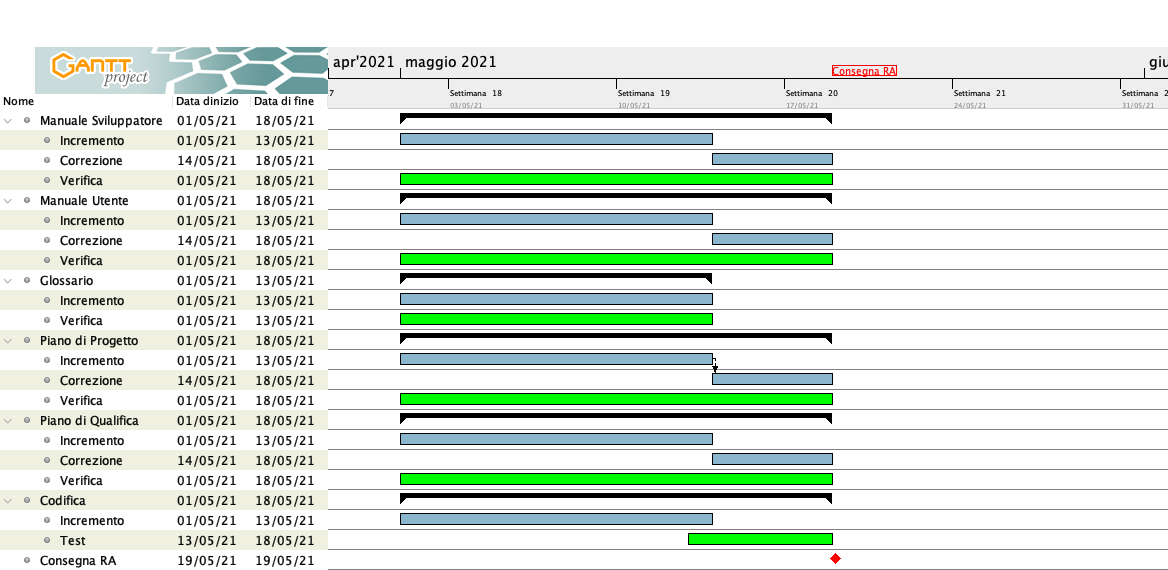
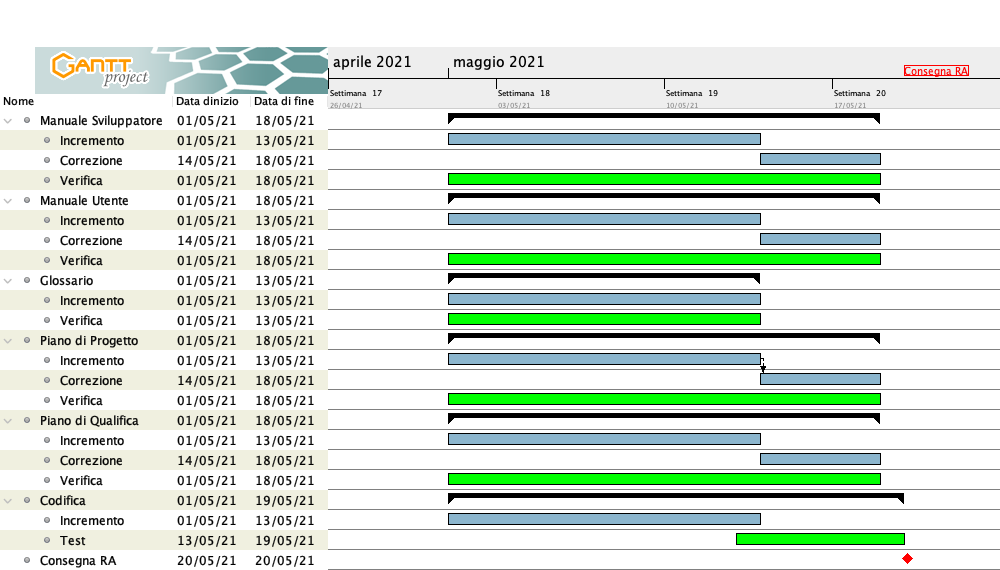
Coretto date, inserito verbale interno

diff --git a/DocumentiInterni/VerbaliInterni/RA/VI_2021_05_18/Sezioni/Contenuto.tex b/DocumentiInterni/VerbaliInterni/RA/VI_2021_05_18/Sezioni/Contenuto.tex
@@ -1,0 +1,36 @@
+\section{Informazioni generali}
+\begin{itemize}
+	\item \textbf{Luogo:} incontro Zoom;
+	\item \textbf{Data:} \Data;
+	\item \textbf{Ora:} 20:00 - 21:00;
+	\item \textbf{Partecipanti:}
+	\begin{itemize}
+		\item \BL{}; 
+		\item \FF{};
+		\item \MM{}; 
+		\item \PC{};
+		\item \TG{};
+		\item \TL{};
+		\item \VD{}.
+	\end{itemize} 
+	\item \textbf{Segretario:} \FF{}.
+\end{itemize}
+
+\section{Ordine del giorno}
+\begin{enumerate}
+	\item Discussione su quanto realizzato e in preparazione alla \glo{RA}.
+\end{enumerate}
+
+\section{Resoconto}
+\subsection{Discussione su quanto realizzato e in preparazione alla RA}
+Il gruppo ha valutato quanto realizzato, l'intero prodotto è stato controllato nel suo funzionamento sui vari dispositivi dei componenti. Quanto presente nei documenti è stato brevemente ricapitolato e controllato per assicurare la completezza degli stessi. In preparazione alla \glo{RA} il gruppo decide di tenere un ultimo incontro per presentare il prodotto al proponente ed assicurarsi che quanto realizzato sia conforme a quanto \Proponente\ si aspetta di vedere in sede di collaudo. Si è infine discusso su come presentare il prodotto durante la RA. 
+
+\section{Registro delle decisioni}
+\begin{itemize}
+	\item \textbf{VI\_\Data.1} 
+	Il responsabile \PC\ contatta \Proponente\ per fissare un incontro;
+	\item \textbf{VI\_\Data.2} 
+	Il responsabile \PC\ contatta il committente per procedere alla consegna il giorno 2021\_05\_20 come stabilito;
+	\item \textbf{VI\_\Data.3} 
+	Il gruppo si riunisce per preparare quanto presentare in \glo{RA} subito dopo l'incontro con il \Proponente\ e in seguito alle istruzioni del committente.
+\end{itemize}

diff --git a/DocumentiPubblici/PianoDiProgetto/Sezioni/Sottosezioni/Pianificazione/ValidazioneECollaudo.tex b/DocumentiPubblici/PianoDiProgetto/Sezioni/Sottosezioni/Pianificazione/ValidazioneECollaudo.tex
@@ -18,7 +18,7 @@ Le postcondizioni sono:
 \begin{itemize}
     \item \textbf{Incremento e verifica dei documenti (dal 2021\_05\_01 al 2021\_05\_18)}: alcuni dei documenti già prodotti vengono migliorati e aggiornati ({\NdP}, {\PdP}, {\PdQ}, \textit{Manuale sviluppatore}, \textit{Manuale utente}); 
     \item \textbf{Incremento e verifica delle attività (dal 2021\_05\_01 al 2021\_05\_13)}: se necessario vengono migliorate le attività di \textbf{Technology Baseline} per quanto riguarda la progettazione ad alto livello, in particolare la \textbf{Product Baseline} riguardo all'aggiunta di design pattern o di diagrammi di classi o di attività; la parte di codifica comprende l'implementazione degli ultimi requisiti rimasti;
-    \item \textbf{Validazione e collaudo (dal 2021\_05\_13 al 2021\_05\_18)}: realizzazione degli ultimi test, con successivi controlli finali per garantire un buon livello di qualità e correttezza.
+    \item \textbf{Validazione e collaudo (dal 2021\_05\_13 al 2021\_05\_19)}: realizzazione degli ultimi test, con successivi controlli finali per garantire un buon livello di qualità e correttezza.
 \end{itemize}
 \subsubsection{Incrementi del periodo}
 \label{IncrementiValidazione}
@@ -40,7 +40,7 @@ Le postcondizioni sono:
 			RFO118, RFO119\_41 \newline
 			RFO120\_42, RFO121\_43 - RFO125\_43.2.2
 			\\ \hline
-			II dal 2021\_05\_13 al 2021\_05\_18 	& 
+			II dal 2021\_05\_13 al 2021\_05\_19 	& 
 			Realizzazione ultimi test e controlli finali del prodotto e correzione dei documenti secondo la valutazione della \glo{RQ} & -\\ \hline
 		\end{tabular}
 		\caption{Tracciamento incrementi-obiettivi Validazione}

diff --git a/DocumentiPubblici/PianoDiProgetto/Sezioni/Sottosezioni/Consuntivo/ConsuntivoValidazione.tex b/DocumentiPubblici/PianoDiProgetto/Sezioni/Sottosezioni/Consuntivo/ConsuntivoValidazione.tex
@@ -45,7 +45,7 @@ Si è conclusa la realizzazione dei requisiti rimanenti completando il prodotto 
 Le attività sono proseguite secondo quanto pianificato.
 
 \myparagraph{Incremento 2}
-Di seguito è presente la tabella contenente i dati del consuntivo dal 2021\_05\_13 al 2021\_05\_18.
+Di seguito è presente la tabella contenente i dati del consuntivo dal 2021\_05\_13 al 2021\_05\_19.
 \begin{table}[H]
 	\centering
 	\begin{tabular}{|c|c|c|c|c|}
@@ -61,7 +61,7 @@ Di seguito è presente la tabella contenente i dati del consuntivo dal 2021\_05\
 		Totale				&	35					&	35				&	575,00		&	575,00 \\ \hline
 		Differenza			& 	\multicolumn{2}{c|}{-} 				&\multicolumn{2}{c|}{-}\\ \hline
 	\end{tabular}
-	\caption{Prospetto orario ed economico a consuntivo dal 2021\_05\_13 al 2021\_05\_18}
+	\caption{Prospetto orario ed economico a consuntivo dal 2021\_05\_13 al 2021\_05\_19}
 \end{table}
 \paragraph*{Conclusione:}
 Sono state eseguite tutte le attività di controllo relative a codice e documentazione in preparazione del collaudo del prodotto rispettando le ore preventivate.

diff --git a/DocumentiPubblici/PianoDiProgetto/Sezioni/Introduzione.tex b/DocumentiPubblici/PianoDiProgetto/Sezioni/Introduzione.tex
@@ -39,13 +39,3 @@ Al fine di rendere il documento più chiaro e leggibile si fornisce un \Glossari
 
 \subsection{Ruoli e costi}
 Durante lo svolgimento del progetto i membri del gruppo {\Gruppo} saranno chiamati a rivestire diversi ruoli. Ciascun componente dovrà ricoprire almeno una volta ogni ruolo, senza che vi siano conflitti d'interesse, così da poter avere un'esperienza più completa possibile sul lavoro di gruppo. Ogni ruolo presenterà un diverso costo come indicato nella sezione \textbf{Offerta tecnico-economica} presente al seguente link: \url{https://www.math.unipd.it/~tullio/IS-1/2020/Progetto/RO.html}
-
-\subsection{Scadenze}
-\label{sub:scadenze_fissate}
-Il gruppo {\Gruppo} si impegna a rispettare le seguenti scadenze per lo sviluppo del progetto \NomeProgetto{}:
-\begin{itemize}
-    \item \glo{\textbf{RR:}} 2021\_01\_18
-    \item \glo{\textbf{RP:}} 2021\_03\_08
-    \item \glo{\textbf{RQ:}} 2021\_04\_09
-    \item \glo{\textbf{RA:}} 2021\_05\_10
-\end{itemize}

diff --git a/DocumentiInterni/VerbaliInterni/RA/VI_2021_05_18/Sezioni/Comandi.tex b/DocumentiInterni/VerbaliInterni/RA/VI_2021_05_18/Sezioni/Comandi.tex
@@ -1,0 +1,19 @@
+\newcommand{\Data}{2021\_05\_19}
+
+\newcommand{\Titolo}{Verbale riunione \Data}
+
+\newcommand{\Redattori}{\FF}
+
+\newcommand{\Verificatori}{\VD}
+
+\newcommand{\Approvatore}{\PC}
+
+\newcommand{\Distribuzione}{\VT{} \newline \CR{} \newline Gruppo \Gruppo}
+
+\newcommand{\Uso}{Interno}
+
+\newcommand{\DescrizioneDoc}{Questo documento si occupa di riportare quanto discusso nella riunione del \Data.}
+
+\newcommand{\pathimg}{../../../../Immagini/N.O.S.jpg}
+
+\newcommand{\Versionedoc}{1.0}

diff --git a/DocumentiInterni/VerbaliInterni/RA/VI_2021_05_18/VI_2021_05_19.tex b/DocumentiInterni/VerbaliInterni/RA/VI_2021_05_18/VI_2021_05_19.tex
@@ -1,0 +1,25 @@
+\documentclass[a4paper, oneside, dvipsnames, table]{article}
+\usepackage{../../../../Utilita/Stiletemplate}
+\usepackage{hyperref}
+\usepackage{fancyhdr}
+\usepackage[italian]{babel}
+
+
+\input{Sezioni/Comandi.tex}
+\input{../../../../Utilita/Comandi.tex}
+
+\fancyverbale
+\begin{document}
+	
+\copertina{}
+\newpage
+
+\input{Sezioni/RegistroModifiche.tex}
+
+\clearpage
+\tableofcontents
+\clearpage
+
+\input{Sezioni/Contenuto.tex}
+
+\end{document}

diff --git a/DocumentiInterni/VerbaliInterni/RA/VI_2021_05_18/Sezioni/RegistroModifiche.tex b/DocumentiInterni/VerbaliInterni/RA/VI_2021_05_18/Sezioni/RegistroModifiche.tex
@@ -1,0 +1,7 @@
+\registroModifiche{
+	
+	1.0 & 2021\_05\_19 & \PC{} & Responsabile & - & Approvazione del documento. \\	
+		
+	0.1 & \Data & \FF{} & Amministratore & \VD{} & \newline Stesura del documento.
+
+}
